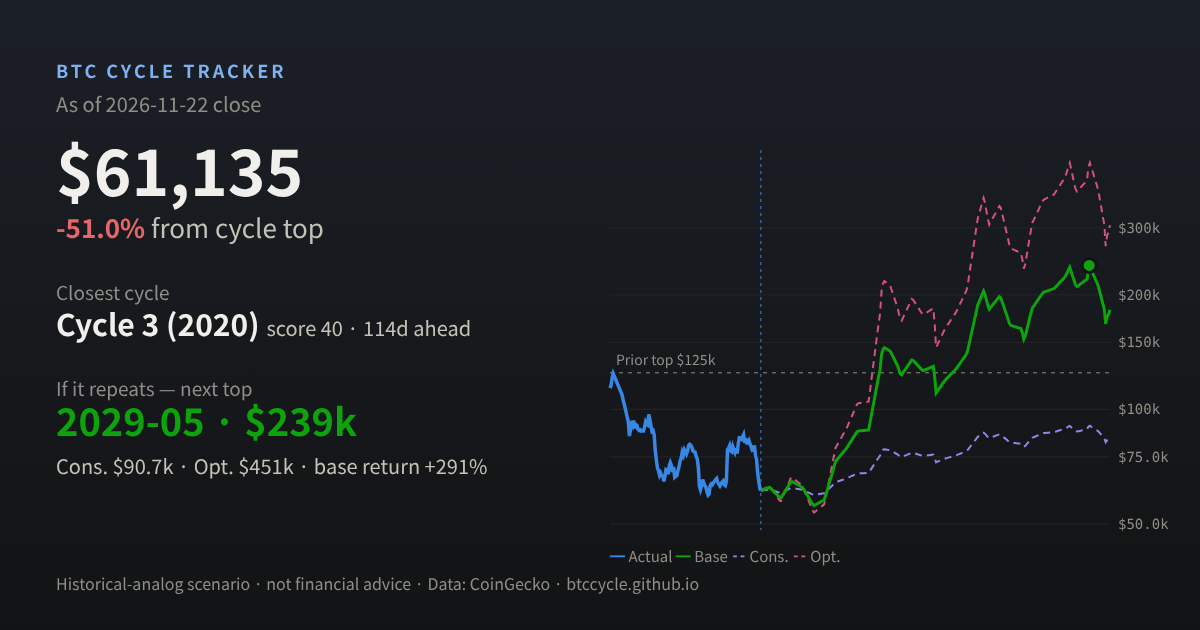
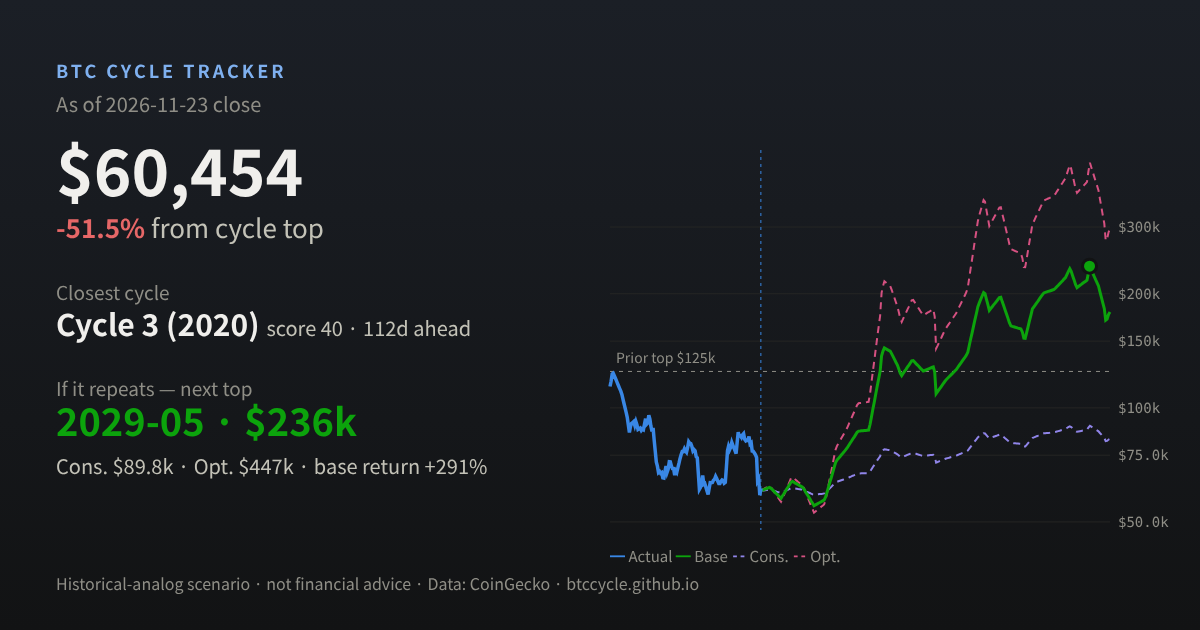
Daily data 2026-11-24

diff --git a/index.html b/index.html
@@ -496,7 +496,7 @@ const NEXT_HALVING_EST = '2028-04-15';
 // CoinGecko get-coin-market-chart snapshot (id=bitcoin; days=365/90/7), taken 2026-11-15 — fallback when the live API is unreachable
 const CG_SNAPSHOT = {"d365":{"startTs":1763251200000,"endTs":1794752830000,"prices":[95380,92903,85088,88256,91324,90360,93429,89227,91987,90253,87720,88092,88490,87192,87867,87575,90614,93650,90552,91201,95593,93344,89454,86625,89212,78647,75628,70273,70175,66259,68779,66427,68026,64074,65891,68816,70868,66043,70417,72934,71220,68424,70529,66330,66691,66888,69002,70645,73022,74297,77126,75858,78275,77367,76297,78512,81437,80678,80482,79069,76959,77550,77016,74340,73820,66727,60960,61670,63532,66293,62897,63255,60990,59953,58566,62554,64001,63193,63747,64717,64796,66521,64318,63882,62820,63465,64263,64856,63409,63031,64686,78318,78974,80268,77658,77297,79822,78283,77262,75590,80874,86597,84378,84449,83576,84743,85540,82564,81795,82156,82020,84082,80049,81274,77521,77385,75775,75267,71372,65197]},"d90":{"startTs":1786996800000,"endTs":1794771080000,"prices":[64241,64166,64250,69679,72643,77342,77181,77065,77394,79458,79157,79069,78706,80329,79292,77513,78157,79316,78670,78698,77241,77155,77700,81056,79671,80045,79912,79750,79093,78511,79586,78405,76879,77037,77317,77099,76767,78986,76548,75699,76320,76533,80014,81286,80276,81071,85822,86180,86528,84226,84393,84569,83927,84142,84443,82630,83038,83583,84296,83936,86620,84543,84856,85293,85751,85771,85722,83713,82638,81686,82374,82745,83093,83869,82365,83278,83370,81564,82309,81961,81626,81594,80814,82202,81448,82727,84627,81810,81670,80908,80348,80557,80449,79704,80825,80451,80203,78147,76872,77554,77983,78334,76781,77573,78405,80354,76006,75694,75922,75727,75191,74609,74312,73551,74002,71690,69507,67133,62612,64937]},"d7":{"startTs":1794168000000,"endTs":1794770510000,"prices":[75849,75687,74406,74740,75092,75195,74781,74415,74256,74482,74217,74316,74847,74659,75465,75007,74609,74803,74804,75182,75267,75004,74792,74479,74740,74566,74635,74448,74338,74312,73704,73210,72840,73416,73390,73704,73625,73721,73528,73569,73695,73860,73551,73658,73716,73949,73826,73739,73935,74218,74444,74338,74612,73849,73974,73618,73726,73723,73520,73447,73515,73418,72856,72826,72430,71617,71695,71690,71626,71388,71341,71372,70887,70188,68891,68062,69030,68653,69041,69287,69142,69507,68807,68640,68931,68994,68823,68208,68314,68234,67622,66691,67160,67327,66942,67363,67218,66955,66787,65673,65287,65518,65722,64832,63500,64120,62612,64899,64794,64506,64438,65073,65321,65345,65467,65425,64719,64676,64689,64968]},"asOf":1794770510000};
 // Daily UTC closes accumulated by scripts/add-closes.mjs: [utcDay, close]
-const CG_CLOSES = [[20765,74740],[20766,75267],[20767,73721],[20768,73974],[20769,71372],[20770,68314],[20771,64120.24],[20772,65305.28],[20773,64840.87],[20774,64889.41],[20775,62996.68],[20776,61921.36],[20777,58817.93],[20778,60121.3],[20779,61172.02]];
+const CG_CLOSES = [[20765,74740],[20766,75267],[20767,73721],[20768,73974],[20769,71372],[20770,68314],[20771,64120.24],[20772,65305.28],[20773,64840.87],[20774,64889.41],[20775,62996.68],[20776,61921.36],[20777,58817.93],[20778,60121.3],[20779,61172.02],[20780,61227.55]];
 const COMP_COLOR = '#a3a29a';
 const cname = c => `Cycle ${c.id.slice(1)}`;
 
